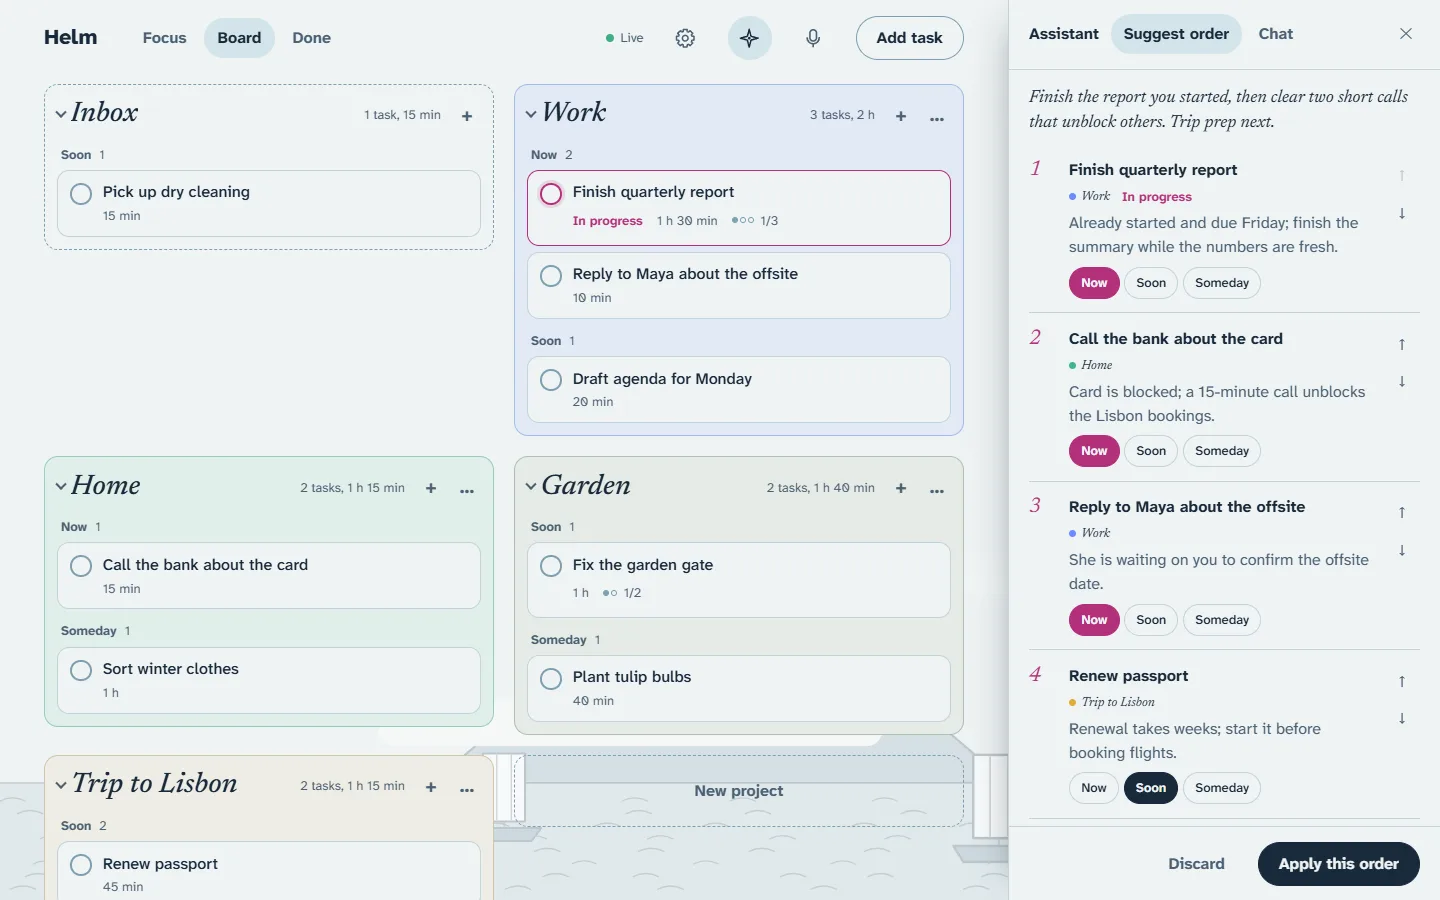
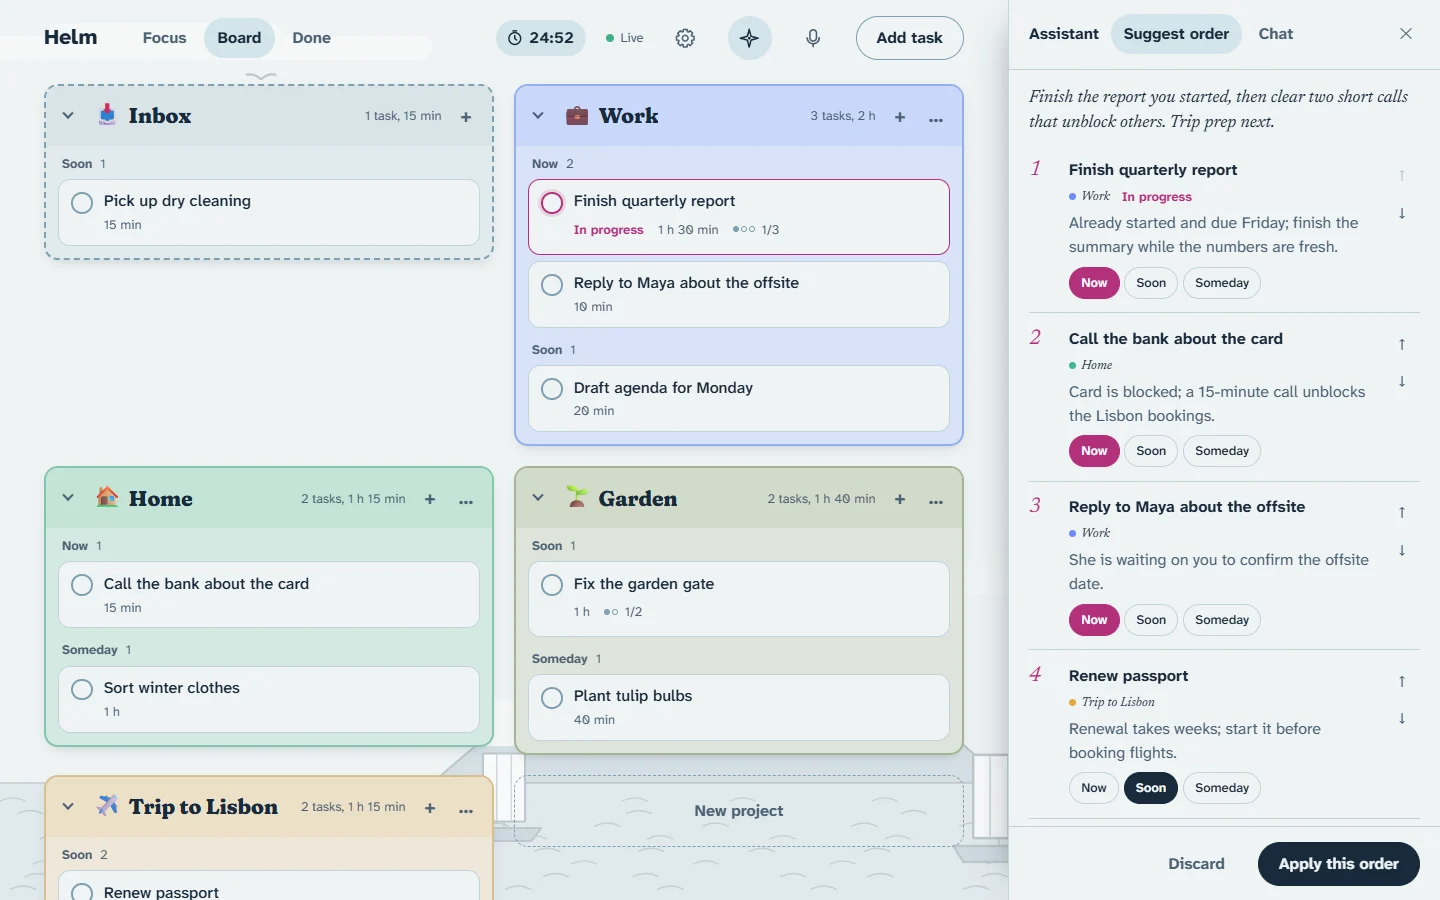
Helm: new screenshots (voice, timer, themes) and text for the timer and MCP clients
Desktop shots are retaken from the updated repo. New phone slides show voice
capture, the timer that rings every device, and four of the seven themes.
The text mentions the timer and says agents connect as MCP clients such as
Claude Code, since Claude and ChatGPT on the web can't use a plain token yet.

diff --git a/src/content/projects/helm.md b/src/content/projects/helm.md
@@ -2,7 +2,7 @@
 title: Helm
 summary: A focus board you and your AI agents share
 icon: wheel
-tagline: A self-hosted task board that shows what to do now, and that Claude and ChatGPT can use too, safely and with my approval.
+tagline: A self-hosted task board that shows what to do now, and that AI agents like Claude Code can use too, safely and with my approval.
 year: 2026
 status: live
 role: Solo developer, built with Claude Code
@@ -11,7 +11,7 @@ accent: '#10b981'
 cover:
   type: image
   src: /media/helm/desktop-focus.webp
-  alt: Helm's Focus view on a desktop, with the task in progress, its subtasks and what's up next
+  alt: Helm's Focus view on a desktop, with the task in progress, its time, subtasks, a timer and what's up next
   caption: Focus, the view to leave open all day
 gallery:
   - type: image
@@ -19,30 +19,35 @@ gallery:
     alt: The assistant panel suggesting an order for open tasks, with a reason for each
     caption: The assistant suggests an order
   - type: image
+    src: /media/helm/phone-voice.webp
+    frame: none
+    alt: Recording a task by voice on a phone, then the task drafted from what was said, ready to check
+    caption: Say a task, check the draft
+  - type: image
     src: /media/helm/desktop-board.webp
-    alt: The board with one coloured bin per project, tasks grouped by Now, Soon and Someday
-    caption: The board, one bin per project
+    alt: The board with one coloured panel per project, tasks grouped by Now, Soon and Someday
+    caption: The board, one panel per project
   - type: image
-    src: /media/helm/themes-1.webp
+    src: /media/helm/phone-timer.webp
     frame: none
-    alt: Helm's Focus view on phones in the Harbor, Desert and Beach themes
-    caption: Themes on a phone, Harbor, Desert and Beach
+    alt: A countdown timer on a phone, the time's up banner, and timer alerts in Settings
+    caption: A timer that rings every device
   - type: image
-    src: /media/helm/themes-2.webp
+    src: /media/helm/themes.webp
     frame: none
-    alt: Helm's Focus view on phones in the Deep forest, Prairie and Night themes
-    caption: Deep forest, Prairie and Night
-skills: [TypeScript, React, Node.js, Hono, SQLite, MCP, Claude Code, OpenAI API, LLMs, Voice AI, Human-in-the-loop, Real-time Systems, PWA, Docker, Raspberry Pi, Tailscale]
+    alt: Helm's Focus view on phones in the Desert, Deep forest, Night and Neo Tokyo themes
+    caption: Four of the seven themes
+skills: [TypeScript, React, Node.js, Hono, SQLite, MCP, Claude Code, OpenAI API, LLMs, Voice AI, Human-in-the-loop, Real-time Systems, PWA, Web Push, Docker, Raspberry Pi, Tailscale]
 workflow:
   - title: Capture
     icon: mic
     description: Type with shorthand like "#work !now ~45", or speak, and an LLM turns the recording into task drafts.
   - title: Focus
     icon: target
-    description: One task in progress, time against its estimate, and what's up next. Starting another pauses the first.
+    description: One task in progress, time against its estimate, and a timer that rings every device when it ends.
   - title: Agents
     icon: bot
-    description: Claude Code, Claude Desktop or ChatGPT read and update the board over MCP, with scoped tokens and no delete.
+    description: Claude Code or any MCP client reads and updates the board, with scoped tokens and no delete.
   - title: Approve
     icon: circle-check
     description: The assistant suggests an order and proposes changes. Nothing is saved until I tick it.
@@ -50,19 +55,19 @@ workflow:
     icon: radio
     description: Every change is logged with who made it and appears live on every device.
 highlights:
-  - Claude Code, Claude Desktop and ChatGPT use it over MCP
+  - AI agents like Claude Code use it over MCP
   - The AI proposes, I approve, and the log shows both
+  - A shared timer that rings even a locked phone, via Web Push
   - Runs on a Raspberry Pi at home, reached privately from my phone
-  - About 114 automated tests across 5 packages
-  - Six themes with woodblock-print style landscapes
+  - Over 120 automated tests across 4 packages
 links:
   - label: Source code
     url: https://github.com/Motyst/helm
     kind: repo
 ---
 
-A self-hosted task board built to stay open all day and answer one question at a glance: what am I doing now, and what's next? The main screen isn't a list but a **Focus view** with one task in progress, and starting another pauses the first. Quick entry understands shorthand, and voice capture turns one spoken ramble into separate task drafts.
+A self-hosted task board built to stay open all day and answer one question at a glance: what am I doing now, and what's next? The main screen isn't a list but a **Focus view** with one task in progress, and starting another pauses the first. A timer runs on the server, so every device shows one countdown and a locked phone still rings. Voice capture turns one spoken ramble into separate task drafts.
 
-Its unusual goal is that **AI agents are users too**. Claude Code, Claude Desktop, ChatGPT or any script can read and update the board through an **MCP server** and a REST API, using scoped, expiring tokens with no delete tool. Inside the app, an assistant suggests the order of work and proposes changes, but nothing is saved until I approve it.
+Its unusual goal is that **AI agents are users too**. Claude Code, other MCP clients or any script can read and update the board through an **MCP server** and a REST API, using scoped, expiring tokens with no delete tool. Inside the app, an assistant suggests the order of work and proposes changes, but nothing is saved until I approve it.
 
 Every write goes through one service layer and one event log, which gives the audit trail, live sync across devices and per-token access in a single design. It's a TypeScript monorepo (React PWA, Hono, SQLite) in one Docker container, running on a **Raspberry Pi** at home over Tailscale. I was the architect and product owner, with Claude Code implementing 11 planned steps that I reviewed one by one.
